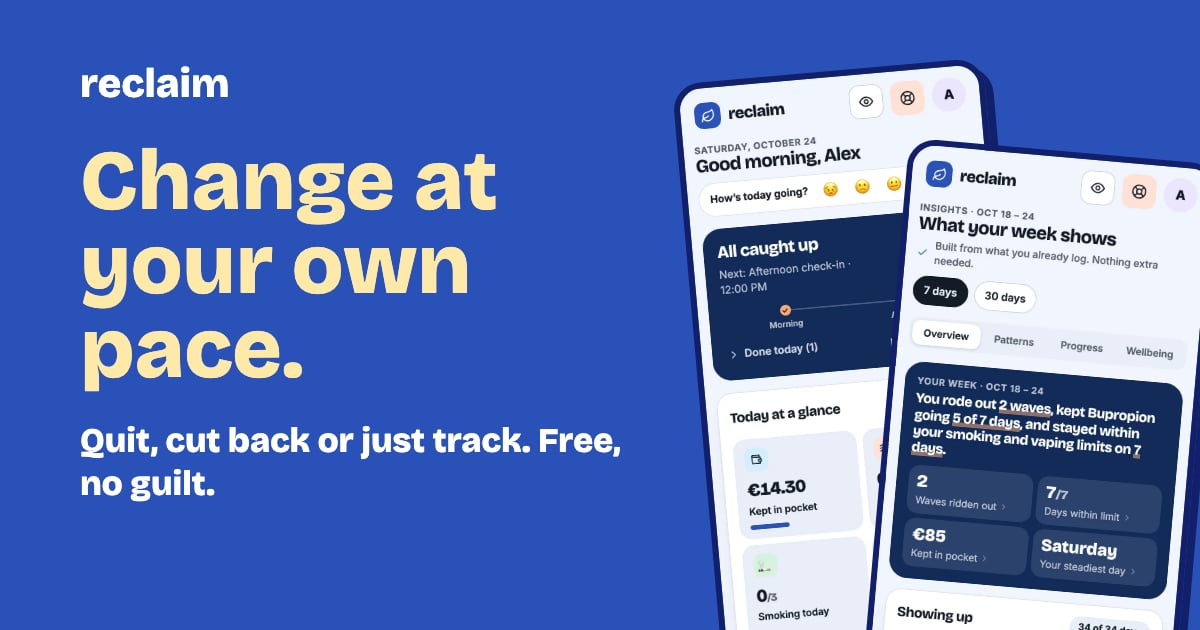
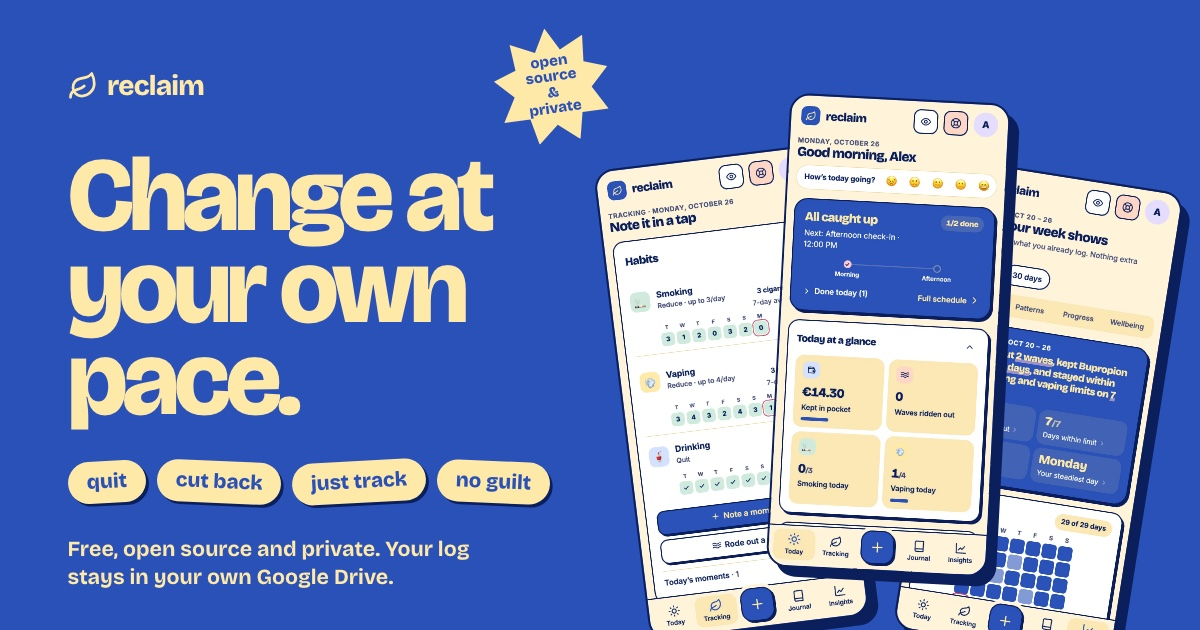
feat(site): refresh the share image in the Zine look

diff --git a/site/faq/index.html b/site/faq/index.html
@@ -15,12 +15,12 @@
   <meta property="og:image" content="https://reclaim.day/og.jpg">
   <meta property="og:image:width" content="1200">
   <meta property="og:image:height" content="630">
-  <meta property="og:image:alt" content="Reclaim on a phone: the Today and Insights screens, with the line &quot;Change at your own pace.&quot;">
+  <meta property="og:image:alt" content="Reclaim on three phones: the Tracking, Today and Insights screens, with the line &quot;Change at your own pace.&quot; and &quot;Free, open source and private.&quot;">
   <meta name="twitter:card" content="summary_large_image">
   <meta name="twitter:title" content="Reclaim FAQ · Cost, reminders and your data">
   <meta name="twitter:description" content="Short answers about reminders, cost, your data and what Reclaim is and isn’t.">
   <meta name="twitter:image" content="https://reclaim.day/og.jpg">
-  <meta name="twitter:image:alt" content="Reclaim on a phone: the Today and Insights screens, with the line &quot;Change at your own pace.&quot;">
+  <meta name="twitter:image:alt" content="Reclaim on three phones: the Tracking, Today and Insights screens, with the line &quot;Change at your own pace.&quot; and &quot;Free, open source and private.&quot;">
   <script type="application/ld+json">{"@context": "https://schema.org", "@type": "FAQPage", "mainEntity": [{"@type": "Question", "name": "Will Reclaim send me reminders?", "acceptedAnswer": {"@type": "Answer", "text": "No. Reclaim never sends notifications. When you open it, it shows what’s due today, and when you close it, it leaves you alone."}}, {"@type": "Question", "name": "What does it cost?", "acceptedAnswer": {"@type": "Answer", "text": "Reclaim is free, with no ads and no account with us. If it helps you and you’d like to support its development, you can chip in on Ko-fi (ko-fi.com/S5P629GQ84). It’s entirely optional and changes nothing in the app."}}, {"@type": "Question", "name": "Can I add Reclaim to my home screen?", "acceptedAnswer": {"@type": "Answer", "text": "Yes, and it’s worth it: Reclaim then opens full screen from its own icon, like any other app. First open app.reclaim.day, then: on iPhone or iPad, in Safari, tap the Share button (on newer iPhones it’s under the ⋯ button), then Add to Home Screen, then Add. On Android, in Chrome, tap the ⋮ menu, then Add to home screen or Install app. On a computer, in Chrome or Edge, click the install icon at the right of the address bar; in Safari on a Mac, choose File › Add to Dock. You’ll sign in with Google each time you open it, and your log stays in your own Drive as always."}}, {"@type": "Question", "name": "Why is Reclaim free?", "acceptedAnswer": {"@type": "Answer", "text": "Because so many apps like it cost a lot of money, and deciding to change something in your life is hard enough. The help you need shouldn’t be stuck behind a paywall. I’m Chris; I make Reclaim on my own and use it myself, and I’m always glad to hear what would make it better: contact@reclaim.day."}}, {"@type": "Question", "name": "Where is my data?", "acceptedAnswer": {"@type": "Answer", "text": "In your own Google Drive, in a folder called Reclaim. Only you can see it, and we don’t keep a copy. The privacy policy has the details."}}, {"@type": "Question", "name": "How do I delete my data?", "acceptedAnswer": {"@type": "Answer", "text": "Delete the Reclaim folder in your Google Drive. To also remove Reclaim’s access to your account, go to myaccount.google.com/permissions, choose Reclaim and select “Delete all connections”. Settings also has a “clear all” option for your live data; your separate backups stay until you delete them."}}, {"@type": "Question", "name": "Can I take my data with me?", "acceptedAnswer": {"@type": "Answer", "text": "Yes. Settings has a private backup you can download at any time."}}, {"@type": "Question", "name": "Is this medical advice?", "acceptedAnswer": {"@type": "Answer", "text": "No. Reclaim is a tracking tool. It doesn’t diagnose or treat anything, and it’s not a substitute for a doctor or pharmacist. Talk to a doctor or pharmacist before changing your medication, and before stopping alcohol suddenly if you drink heavily, because withdrawal can be dangerous. If you’re in crisis, call or text 988 in the US, call 112 in the EU, or see findahelpline.com."}}, {"@type": "Question", "name": "I have a question that isn’t here.", "acceptedAnswer": {"@type": "Answer", "text": "Write to contact@reclaim.day."}}]}</script>
   <meta name="theme-color" content="#FFE9A8">
   <link rel="icon" href="/favicon.ico" sizes="48x48">

diff --git a/site/index.html b/site/index.html
@@ -16,12 +16,12 @@
   <meta property="og:image" content="https://reclaim.day/og.jpg">
   <meta property="og:image:width" content="1200">
   <meta property="og:image:height" content="630">
-  <meta property="og:image:alt" content="Reclaim on a phone: the Today and Insights screens, with the line &quot;Change at your own pace.&quot;">
+  <meta property="og:image:alt" content="Reclaim on three phones: the Tracking, Today and Insights screens, with the line &quot;Change at your own pace.&quot; and &quot;Free, open source and private.&quot;">
   <meta name="twitter:card" content="summary_large_image">
   <meta name="twitter:title" content="Reclaim · Change at your own pace">
   <meta name="twitter:description" content="Quit, cut back, or just keep track. No guilt, no grades. Free, open source, and your log stays in your own Google Drive.">
   <meta name="twitter:image" content="https://reclaim.day/og.jpg">
-  <meta name="twitter:image:alt" content="Reclaim on a phone: the Today and Insights screens, with the line &quot;Change at your own pace.&quot;">
+  <meta name="twitter:image:alt" content="Reclaim on three phones: the Tracking, Today and Insights screens, with the line &quot;Change at your own pace.&quot; and &quot;Free, open source and private.&quot;">
   <script type="application/ld+json">{"@context": "https://schema.org", "@graph": [{"@type": "WebSite", "@id": "https://reclaim.day/#site", "url": "https://reclaim.day/", "name": "Reclaim", "description": "A free, open-source, calm companion for quitting, cutting back or just keeping track of smoking, vaping, drinking and medication.", "inLanguage": "en"}, {"@type": "Organization", "@id": "https://reclaim.day/#org", "name": "Reclaim", "url": "https://reclaim.day/", "logo": {"@type": "ImageObject", "url": "https://reclaim.day/icon-512.png", "width": 512, "height": 512}, "email": "contact@reclaim.day"}, {"@type": "WebApplication", "@id": "https://reclaim.day/#app", "name": "Reclaim", "url": "https://app.reclaim.day/", "description": "A free, open-source, calm companion for quitting, cutting back or just keeping track of smoking, vaping, drinking and medication.", "applicationCategory": "HealthApplication", "operatingSystem": "Any (web browser)", "browserRequirements": "Requires JavaScript and a Google account", "isAccessibleForFree": true, "offers": {"@type": "Offer", "price": "0", "priceCurrency": "EUR"}, "publisher": {"@id": "https://reclaim.day/#org"}, "inLanguage": "en"}]}</script>
   <link rel="icon" href="/favicon.ico" sizes="48x48">
   <link rel="icon" href="/icon.svg" type="image/svg+xml">

diff --git a/site/guides/track-your-smoking/index.html b/site/guides/track-your-smoking/index.html
@@ -15,12 +15,12 @@
   <meta property="og:image" content="https://reclaim.day/og.jpg">
   <meta property="og:image:width" content="1200">
   <meta property="og:image:height" content="630">
-  <meta property="og:image:alt" content="Reclaim on a phone: the Today and Insights screens, with the line &quot;Change at your own pace.&quot;">
+  <meta property="og:image:alt" content="Reclaim on three phones: the Tracking, Today and Insights screens, with the line &quot;Change at your own pace.&quot; and &quot;Free, open source and private.&quot;">
   <meta name="twitter:card" content="summary_large_image">
   <meta name="twitter:title" content="How to track your smoking and cut back · Reclaim">
   <meta name="twitter:description" content="A kind, practical guide to tracking your smoking: what to write down, how to spot your patterns and how to set a pace that feels doable.">
   <meta name="twitter:image" content="https://reclaim.day/og.jpg">
-  <meta name="twitter:image:alt" content="Reclaim on a phone: the Today and Insights screens, with the line &quot;Change at your own pace.&quot;">
+  <meta name="twitter:image:alt" content="Reclaim on three phones: the Tracking, Today and Insights screens, with the line &quot;Change at your own pace.&quot; and &quot;Free, open source and private.&quot;">
   <meta name="theme-color" content="#FFE9A8">
   <link rel="icon" href="/favicon.ico" sizes="48x48">
   <link rel="icon" href="/icon.svg" type="image/svg+xml">

diff --git a/site/privacy/index.html b/site/privacy/index.html
@@ -15,12 +15,12 @@
   <meta property="og:image" content="https://reclaim.day/og.jpg">
   <meta property="og:image:width" content="1200">
   <meta property="og:image:height" content="630">
-  <meta property="og:image:alt" content="Reclaim on a phone: the Today and Insights screens, with the line &quot;Change at your own pace.&quot;">
+  <meta property="og:image:alt" content="Reclaim on three phones: the Tracking, Today and Insights screens, with the line &quot;Change at your own pace.&quot; and &quot;Free, open source and private.&quot;">
   <meta name="twitter:card" content="summary_large_image">
   <meta name="twitter:title" content="Privacy policy · Reclaim">
   <meta name="twitter:description" content="What Reclaim accesses in your Google account, where your data is stored and how to delete it.">
   <meta name="twitter:image" content="https://reclaim.day/og.jpg">
-  <meta name="twitter:image:alt" content="Reclaim on a phone: the Today and Insights screens, with the line &quot;Change at your own pace.&quot;">
+  <meta name="twitter:image:alt" content="Reclaim on three phones: the Tracking, Today and Insights screens, with the line &quot;Change at your own pace.&quot; and &quot;Free, open source and private.&quot;">
   <meta name="theme-color" content="#FFE9A8">
   <link rel="icon" href="/favicon.ico" sizes="48x48">
   <link rel="icon" href="/icon.svg" type="image/svg+xml">

diff --git a/site/terms/index.html b/site/terms/index.html
@@ -15,12 +15,12 @@
   <meta property="og:image" content="https://reclaim.day/og.jpg">
   <meta property="og:image:width" content="1200">
   <meta property="og:image:height" content="630">
-  <meta property="og:image:alt" content="Reclaim on a phone: the Today and Insights screens, with the line &quot;Change at your own pace.&quot;">
+  <meta property="og:image:alt" content="Reclaim on three phones: the Tracking, Today and Insights screens, with the line &quot;Change at your own pace.&quot; and &quot;Free, open source and private.&quot;">
   <meta name="twitter:card" content="summary_large_image">
   <meta name="twitter:title" content="Terms of service · Reclaim">
   <meta name="twitter:description" content="The terms for using Reclaim: free, your data in your own Drive, not medical advice.">
   <meta name="twitter:image" content="https://reclaim.day/og.jpg">
-  <meta name="twitter:image:alt" content="Reclaim on a phone: the Today and Insights screens, with the line &quot;Change at your own pace.&quot;">
+  <meta name="twitter:image:alt" content="Reclaim on three phones: the Tracking, Today and Insights screens, with the line &quot;Change at your own pace.&quot; and &quot;Free, open source and private.&quot;">
   <meta name="theme-color" content="#FFE9A8">
   <link rel="icon" href="/favicon.ico" sizes="48x48">
   <link rel="icon" href="/icon.svg" type="image/svg+xml">

diff --git a/site/guides/index.html b/site/guides/index.html
@@ -15,12 +15,12 @@
   <meta property="og:image" content="https://reclaim.day/og.jpg">
   <meta property="og:image:width" content="1200">
   <meta property="og:image:height" content="630">
-  <meta property="og:image:alt" content="Reclaim on a phone: the Today and Insights screens, with the line &quot;Change at your own pace.&quot;">
+  <meta property="og:image:alt" content="Reclaim on three phones: the Tracking, Today and Insights screens, with the line &quot;Change at your own pace.&quot; and &quot;Free, open source and private.&quot;">
   <meta name="twitter:card" content="summary_large_image">
   <meta name="twitter:title" content="Guides · Reclaim">
   <meta name="twitter:description" content="Short, kind guides to tracking smoking, vaping, drinking and medication at your own pace.">
   <meta name="twitter:image" content="https://reclaim.day/og.jpg">
-  <meta name="twitter:image:alt" content="Reclaim on a phone: the Today and Insights screens, with the line &quot;Change at your own pace.&quot;">
+  <meta name="twitter:image:alt" content="Reclaim on three phones: the Tracking, Today and Insights screens, with the line &quot;Change at your own pace.&quot; and &quot;Free, open source and private.&quot;">
   <meta name="theme-color" content="#FFE9A8">
   <link rel="icon" href="/favicon.ico" sizes="48x48">
   <link rel="icon" href="/icon.svg" type="image/svg+xml">

diff --git a/site/whats-new/index.html b/site/whats-new/index.html
@@ -15,12 +15,12 @@
   <meta property="og:image" content="https://reclaim.day/og.jpg">
   <meta property="og:image:width" content="1200">
   <meta property="og:image:height" content="630">
-  <meta property="og:image:alt" content="Reclaim on a phone: the Today and Insights screens, with the line &quot;Change at your own pace.&quot;">
+  <meta property="og:image:alt" content="Reclaim on three phones: the Tracking, Today and Insights screens, with the line &quot;Change at your own pace.&quot; and &quot;Free, open source and private.&quot;">
   <meta name="twitter:card" content="summary_large_image">
   <meta name="twitter:title" content="What’s new in Reclaim · Release notes">
   <meta name="twitter:description" content="What’s new in Reclaim: new features and fixes, in plain words.">
   <meta name="twitter:image" content="https://reclaim.day/og.jpg">
-  <meta name="twitter:image:alt" content="Reclaim on a phone: the Today and Insights screens, with the line &quot;Change at your own pace.&quot;">
+  <meta name="twitter:image:alt" content="Reclaim on three phones: the Tracking, Today and Insights screens, with the line &quot;Change at your own pace.&quot; and &quot;Free, open source and private.&quot;">
   <meta name="theme-color" content="#FFE9A8">
   <link rel="icon" href="/favicon.ico" sizes="48x48">
   <link rel="icon" href="/icon.svg" type="image/svg+xml">

diff --git a/site/imprint/index.html b/site/imprint/index.html
@@ -15,12 +15,12 @@
   <meta property="og:image" content="https://reclaim.day/og.jpg">
   <meta property="og:image:width" content="1200">
   <meta property="og:image:height" content="630">
-  <meta property="og:image:alt" content="Reclaim on a phone: the Today and Insights screens, with the line &quot;Change at your own pace.&quot;">
+  <meta property="og:image:alt" content="Reclaim on three phones: the Tracking, Today and Insights screens, with the line &quot;Change at your own pace.&quot; and &quot;Free, open source and private.&quot;">
   <meta name="twitter:card" content="summary_large_image">
   <meta name="twitter:title" content="Imprint · Reclaim">
   <meta name="twitter:description" content="Who runs Reclaim and how to reach them.">
   <meta name="twitter:image" content="https://reclaim.day/og.jpg">
-  <meta name="twitter:image:alt" content="Reclaim on a phone: the Today and Insights screens, with the line &quot;Change at your own pace.&quot;">
+  <meta name="twitter:image:alt" content="Reclaim on three phones: the Tracking, Today and Insights screens, with the line &quot;Change at your own pace.&quot; and &quot;Free, open source and private.&quot;">
   <meta name="theme-color" content="#FFE9A8">
   <link rel="icon" href="/favicon.ico" sizes="48x48">
   <link rel="icon" href="/icon.svg" type="image/svg+xml">
